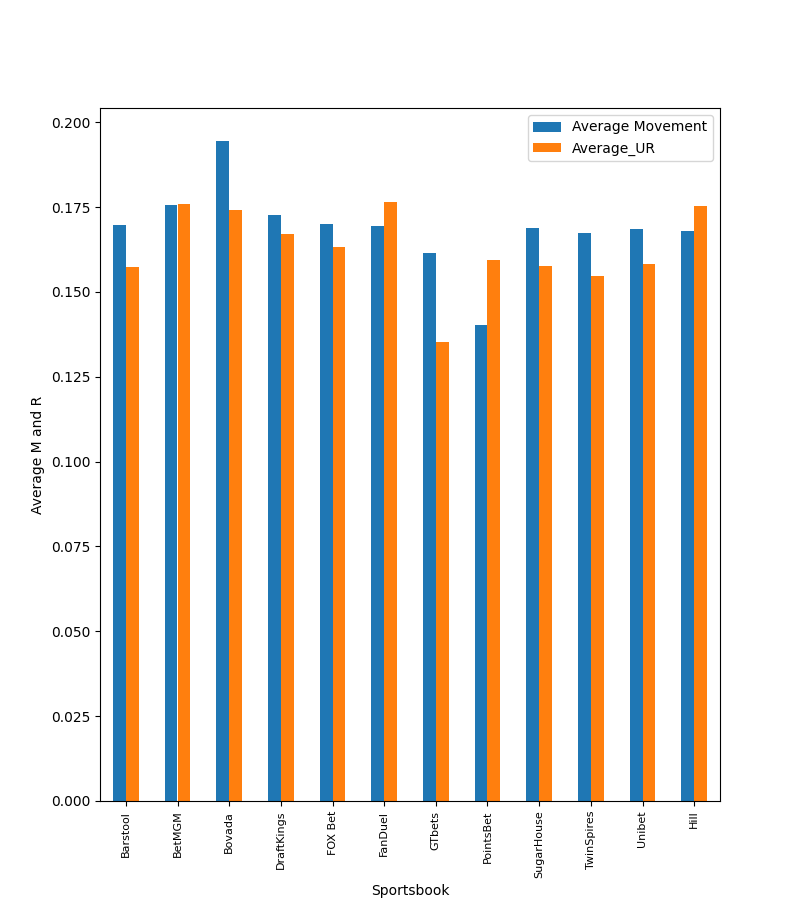
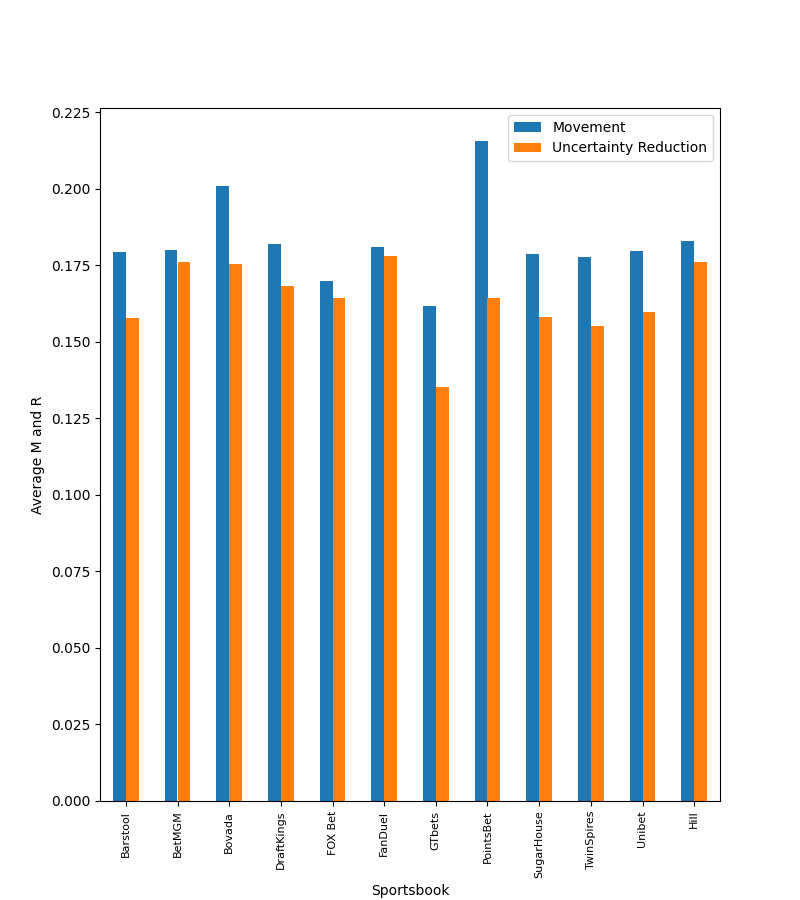
Added comments

diff --git a/data_processing/process_df.py b/data_processing/process_df.py
@@ -1,40 +1,42 @@
 import pandas as pd
 import numpy as np
 import sys
-#Processes the dataframe containing all the data
+#Processes the raw dataframe containing all the data
 df = pd.read_parquet('data_processing/combined_df.parquet')
+
 #Ensure df is sorted first by matchid, then within a match by sportsbook, and then within a stream by timestamp
 df = df.sort_values(['id', 'Sportsbook', 'Time'])
-print(df.shape[0])
+
 #Remove Betfair and MyBookie
 df = df[~df['Sportsbook'].isin(['MyBookie.ag', 'Betfair'])]
 
-print(df.shape[0])
+
 #Remove PointsBet observations from when bets are frozen
 condition = (df['Sportsbook'] == 'PointsBet (US)') & (df['Team 1 Belief'] == 1) & (df['Team 2 Belief'] == 1)
 df = df[~condition]
 
-print(df.shape[0])
+
 #Keep only major sports
 sports = ['MLS', 'NBA', 'NCAAB', 'NFL', 'NCAAF', 'MLB']
 df = df[df['Sport'].isin(sports)]
-print(df.shape[0])
+
 #Only keep rows that reflect changes in beliefs
 same_belief_one = df['Team 1 Belief'] == df['Team 1 Belief'].shift(1) 
 same_belief_two = df['Team 2 Belief'] == df['Team 2 Belief'].shift(1) 
 same_matchid = df['id'] == df['id'].shift(1)
 # use boolean indexing to filter out the consecutive rows that meet the condition
 df = df[~(same_belief_one & same_belief_two & same_matchid)]
-print(df.shape[0])
+
 #Only use matches with 20+ unique quotes
 grouped = df.groupby(['id', 'Sportsbook'])
 #Keep only streams that are resolved (meaning one final belief > .9)
 df = grouped.filter(lambda x: max(x['Team 1 Belief'].iloc[-1], x['Team 2 Belief'].iloc[-1]) > .9)
-print(df.shape[0])
+
 grouped = df.groupby(['id', 'Sportsbook'])
 # use filter() method to keep only streams with 20 or more rows
 df = grouped.filter(lambda x: len(x) >= 20)
-print(df.shape[0])
+
+#Add movement and uncertainty reduction columns
 def calc_movement(group):
     return (group - group.shift(1)) ** 2
 def calc_ur(group):
@@ -43,11 +45,17 @@ def calc_ur(group):
 grouped = df.groupby(['id', 'Sportsbook'])['Team 1 Belief']
 df['Movement'] = grouped.transform(calc_movement)
 df['Uncertainty Reduction'] = grouped.transform(calc_ur)
+
+#Set row index to be row position within stream
 df = df.reset_index(drop=True)
 df = df.set_index(df.groupby(['id', 'Sportsbook']).cumcount())
+
+#Add 'Minute Mark' column which tracks when an observation occurred in game time
 df['Start_Time'] = pd.to_datetime(df['Start_Time'])
 df['Time'] = pd.to_datetime(df['Time'])
 df['Minute Mark'] = round((df['Time'] - df['Start_Time']) / pd.Timedelta(minutes=1)).astype(int)
+
+#Classify each observation into one of 24 chunks based on position in game
 game_lengths = df.groupby(['Sport', 'id', 'Sportsbook'])['Minute Mark'].max()
 avg_lengths = game_lengths.groupby('Sport').mean()
 chunk_sizes = avg_lengths / 24
@@ -59,4 +67,6 @@ def calc_chunk(group):
     chunk = chunk.apply(lambda x: max(x,0))
     return chunk
 df['Chunk'] = sport_group.transform(calc_chunk)
+
+#Save resulting df
 df.to_parquet('data_processing/processed_df.parquet')

diff --git a/descriptive_stats.py b/descriptive_stats.py
@@ -2,21 +2,26 @@ import pandas as pd
 import numpy as np
 import matplotlib.pyplot as plt
 import sys
+#This file creates a bar chart of average M and R per match by sportsbook
+# and plots average M and R over the course of a game for each sport
+
 df = pd.read_parquet('data_processing/processed_df.parquet')
-grouped = df.groupby(['id', 'Sportsbook'])
-def calc_mov_ur(group):
-    movement = 0
-    for i,obs in enumerate(group['Team 1 Belief']):
-        if i == 0:
-            init_uncert = obs*(1-obs)
-            prev_obs = obs
-            continue
-        elif i == len(group) - 1:
-            final_uncert = obs * (1-obs)
-        movement += (obs - prev_obs) ** 2
-        prev_obs = obs
-    uncertainty_reduction = init_uncert - final_uncert
-    return {"Movement":movement, "Uncertainty Reduction":uncertainty_reduction}
+
+mean_df = df.groupby(['Sportsbook', 'id'])[['Movement', 'Uncertainty Reduction']].sum().reset_index()
+mean_df = mean_df.groupby('Sportsbook').mean().reset_index()
+#plot bar chart
+fig,ax = plt.subplots(figsize=(8,9))
+ax = mean_df.plot(x='Sportsbook', y=['Movement', 'Uncertainty Reduction'], kind='bar', ax=ax)
+ax.set_xlabel('Sportsbook')
+ax.set_ylabel('Average M and R')
+ax.tick_params(axis='x', which='major', labelsize=8)
+ax.set_yticks(np.arange(0, .25, .025))
+newticks = mean_df['Sportsbook'].values
+newticks[0] = 'Barstool'
+newticks[-1] = 'Hill'
+newticks[-5] = 'PointsBet'
+ax.set_xticklabels(newticks)
+plt.savefig('figures/Average Mov and UR by Sportsbook')
 
 # result = grouped.apply(calc_mov_ur)
 # result = result.apply(lambda x: pd.Series(x))
@@ -38,7 +43,8 @@ def calc_mov_ur(group):
 # ax.set_xticklabels(newticks)
 # plt.savefig('Average Mov and UR by Sportsbook')
 
-#Movement and UR over time
+
+#Movement and UR over time plot
 game_lengths = df.groupby(['Sport', 'id', 'Sportsbook'])['Minute Mark'].max()
 avg_lengths = game_lengths.groupby('Sport').mean()
 chunk_sizes = avg_lengths / 24
@@ -62,7 +68,7 @@ for sport, data in grouped.groupby('Sport'):
     
 # adjust the layout and save the figure
 fig.tight_layout()
-fig.savefig('Movement and UR vs. Time by Sport.png')
+fig.savefig('figures/Movement and UR vs. Time by Sport.png')
 
 
 

diff --git a/check_calibration.py b/check_calibration.py
@@ -2,7 +2,9 @@ import pandas as pd
 import numpy as np
 import matplotlib.pyplot as plt
 from scipy import stats
-def apply_func(group, start):
+#This file generates a plot of the initial (middle) belief vs result, averaged over all streams
+
+def calibrate(group, start):
     last_obs = group['Team 1 Belief'].iloc[-1]
     result = int(round(last_obs, 0))
     if start:
@@ -16,14 +18,14 @@ def apply_func(group, start):
 df = pd.read_parquet('data_processing/processed_df.parquet')
 grouped = df.groupby(['id', 'Sportsbook'])
 start = False
-result = grouped.apply(apply_func, start = start)
+result = grouped.apply(calibrate, start = start)
 if start:
     group_col = 'Initial Belief'
 else:
     group_col = 'Middle Belief'
 mean_result = result.groupby(group_col)['Result'].mean()
 slope, intercept, r_value, p_value, std_err = stats.linregress(mean_result.index, mean_result)
-# plot the mean 'Result' for each unique 'Initial Belief' value as a scatter plot with error bars
+
 fig, ax = plt.subplots()
 ax.scatter(mean_result.index, mean_result)
 ax.plot(mean_result.index, mean_result.index, '--', color='gray', label = 'Identity')

diff --git a/AR_test.py b/AR_test.py
@@ -3,6 +3,7 @@ import numpy as np
 import sys
 from scipy.stats import norm
 from tabulate import tabulate
+#Implements the main AR statistical test on our data and prints the results as a table
 df = pd.read_parquet('data_processing/processed_df.parquet')
 df['EM'] = df['Movement'] - df['Uncertainty Reduction']
 sportsbooks_df = df.groupby('Sportsbook')
